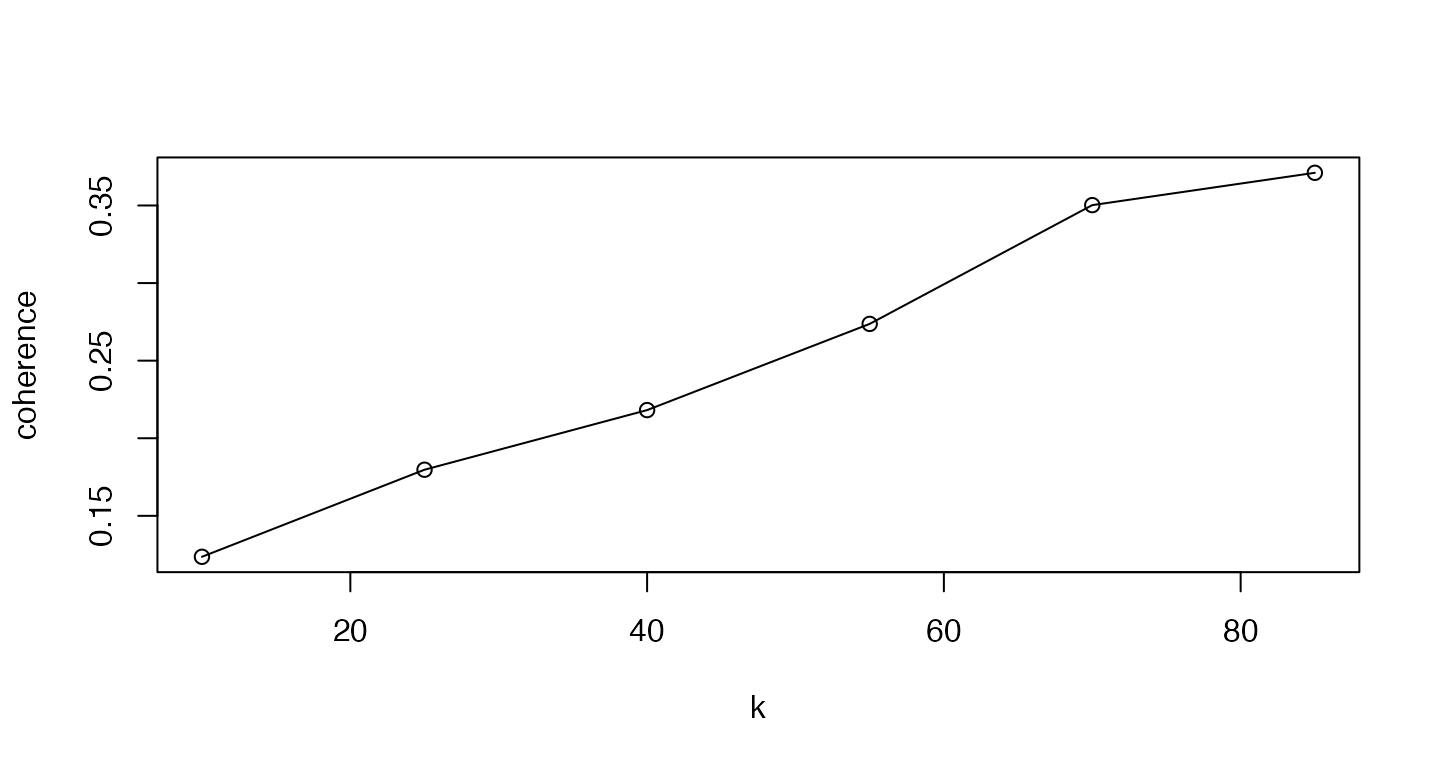
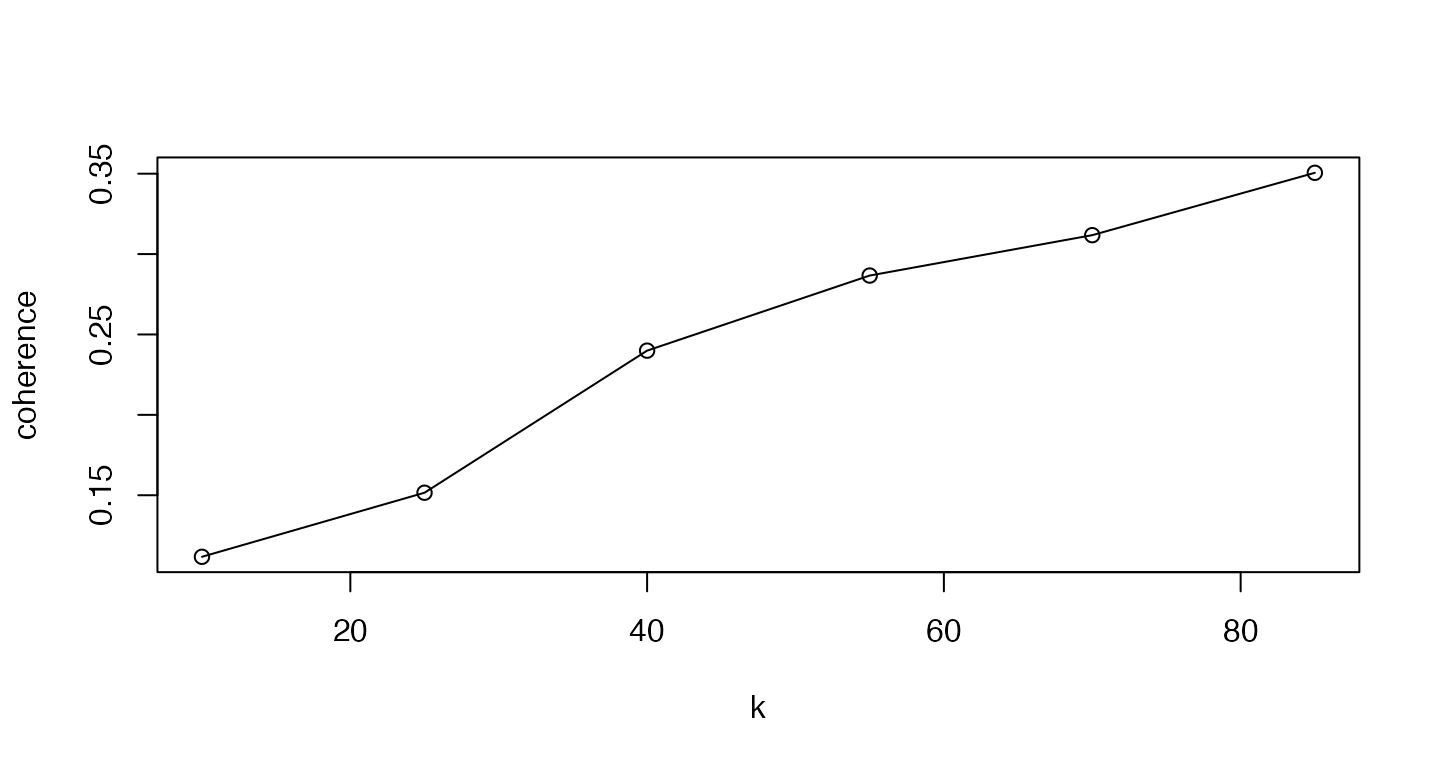
update website again

diff --git a/docs/articles/d_text_embeddings.html b/docs/articles/d_text_embeddings.html
@@ -194,11 +194,11 @@
 <div class="sourceCode" id="cb3"><pre class="downlit sourceCode r">
 <code class="sourceCode R"><span class="co"># Get an R-squared for general goodness of fit</span>
 <span class="va">embeddings</span><span class="op">$</span><span class="va">r2</span>
-<span class="co">#&gt; [1] 0.1784636</span>
+<span class="co">#&gt; [1] 0.1785594</span>
 <span class="co"># Get coherence (relative to the TCM) for goodness of fit</span>
 <span class="fu"><a href="https://rdrr.io/r/base/summary.html">summary</a></span><span class="op">(</span><span class="va">embeddings</span><span class="op">$</span><span class="va">coherence</span><span class="op">)</span>
 <span class="co">#&gt;    Min. 1st Qu.  Median    Mean 3rd Qu.    Max. </span>
-<span class="co">#&gt; 0.01480 0.07422 0.10755 0.13179 0.17878 0.35892</span></code></pre></div>
+<span class="co">#&gt; 0.02758 0.07406 0.11779 0.12522 0.17409 0.25412</span></code></pre></div>
 <p>We will create a summary table as we did with a topic model before.</p>
 <div class="sourceCode" id="cb4"><pre class="downlit sourceCode r">
 <code class="sourceCode R"><span class="co"># Get top terms, no labels because we don't have bigrams</span>
@@ -227,74 +227,74 @@
 </tr></thead>
 <tbody>
 <tr class="odd">
-<td align="left">t_8</td>
-<td align="left">t_8</td>
-<td align="right">0.186</td>
-<td align="right">183.75</td>
-<td align="left">aim, studies, study, project, specific</td>
+<td align="left">t_25</td>
+<td align="left">t_25</td>
+<td align="right">0.213</td>
+<td align="right">219.85</td>
+<td align="left">study, aim, specific, studies, determine</td>
 </tr>
 <tr class="even">
-<td align="left">t_42</td>
-<td align="left">t_42</td>
-<td align="right">0.181</td>
-<td align="right">151.36</td>
-<td align="left">research, health, cancer, disease, clinical</td>
+<td align="left">t_19</td>
+<td align="left">t_19</td>
+<td align="right">0.159</td>
+<td align="right">178.29</td>
+<td align="left">research, core, program, studies, support</td>
+</tr>
+<tr class="odd">
+<td align="left">t_45</td>
+<td align="left">t_45</td>
+<td align="right">0.165</td>
+<td align="right">136.86</td>
+<td align="left">cells, cell, human, aim, lung</td>
+</tr>
+<tr class="even">
+<td align="left">t_29</td>
+<td align="left">t_29</td>
+<td align="right">0.090</td>
+<td align="right">114.76</td>
+<td align="left">expression, cdk, role, interactions, structure</td>
 </tr>
 <tr class="odd">
 <td align="left">t_31</td>
 <td align="left">t_31</td>
-<td align="right">0.168</td>
-<td align="right">139.95</td>
-<td align="left">research, core, program, support, center</td>
-</tr>
-<tr class="even">
-<td align="left">t_41</td>
-<td align="left">t_41</td>
-<td align="right">0.162</td>
-<td align="right">137.70</td>
-<td align="left">cells, cell, human, function, lung</td>
-</tr>
-<tr class="odd">
-<td align="left">t_9</td>
-<td align="left">t_9</td>
-<td align="right">0.143</td>
-<td align="right">126.93</td>
-<td align="left">treatment, clinical, based, effect, improve</td>
+<td align="right">0.130</td>
+<td align="right">111.71</td>
+<td align="left">brain, function, activity, tissue, tumor</td>
 </tr>
 <tr class="even">
 <td align="left">t_26</td>
 <td align="left">t_26</td>
-<td align="right">0.181</td>
-<td align="right">124.41</td>
-<td align="left">response, role, responses, brain, immune</td>
+<td align="right">0.121</td>
+<td align="right">109.39</td>
+<td align="left">hiv, based, inflammation, strategies, therapy</td>
 </tr>
 <tr class="odd">
-<td align="left">t_40</td>
-<td align="left">t_40</td>
-<td align="right">0.104</td>
-<td align="right">111.66</td>
-<td align="left">data, studies, time, design, exposure</td>
+<td align="left">t_10</td>
+<td align="left">t_10</td>
+<td align="right">0.105</td>
+<td align="right">107.66</td>
+<td align="left">disease, drug, cardiovascular, related, diseases</td>
 </tr>
 <tr class="even">
-<td align="left">t_38</td>
-<td align="left">t_38</td>
-<td align="right">0.110</td>
-<td align="right">107.10</td>
-<td align="left">factors, risk, early, sud, years</td>
+<td align="left">t_13</td>
+<td align="left">t_13</td>
+<td align="right">0.106</td>
+<td align="right">107.14</td>
+<td align="left">health, clinical, interventions, significant, related</td>
 </tr>
 <tr class="odd">
-<td align="left">t_12</td>
-<td align="left">t_12</td>
-<td align="right">0.054</td>
-<td align="right">106.25</td>
-<td align="left">expression, ipf, acids, patients, acid</td>
+<td align="left">t_17</td>
+<td align="left">t_17</td>
+<td align="right">0.187</td>
+<td align="right">107.04</td>
+<td align="left">cancer, dr, disease, level, research</td>
 </tr>
 <tr class="even">
-<td align="left">t_33</td>
-<td align="left">t_33</td>
-<td align="right">0.227</td>
-<td align="right">105.93</td>
-<td align="left">dependent, sleep, memory, cellular, plasticity</td>
+<td align="left">t_4</td>
+<td align="left">t_4</td>
+<td align="right">0.059</td>
+<td align="right">104.61</td>
+<td align="left">data, methods, cost, capacity, analysis</td>
 </tr>
 </tbody>
 </table>
@@ -312,74 +312,74 @@
 </tr></thead>
 <tbody>
 <tr class="odd">
-<td align="left">t_24</td>
-<td align="left">t_24</td>
-<td align="right">0.359</td>
-<td align="right">101.78</td>
-<td align="left">fertility, race, ethnic, knowledge, unintended</td>
-</tr>
-<tr class="even">
-<td align="left">t_18</td>
-<td align="left">t_18</td>
-<td align="right">0.326</td>
-<td align="right">98.76</td>
-<td align="left">capacity, li, batteries, aid, battery</td>
-</tr>
-<tr class="odd">
-<td align="left">t_27</td>
-<td align="left">t_27</td>
-<td align="right">0.294</td>
-<td align="right">94.58</td>
-<td align="left">provided, applicant, project, people, description</td>
-</tr>
-<tr class="even">
-<td align="left">t_22</td>
-<td align="left">t_22</td>
-<td align="right">0.278</td>
-<td align="right">100.12</td>
-<td align="left">microbiome, gut, composition, crc, bas</td>
-</tr>
-<tr class="odd">
-<td align="left">t_30</td>
-<td align="left">t_30</td>
-<td align="right">0.268</td>
-<td align="right">100.81</td>
-<td align="left">proteins, cutaneous, sand, infection, response</td>
-</tr>
-<tr class="even">
-<td align="left">t_19</td>
-<td align="left">t_19</td>
-<td align="right">0.266</td>
-<td align="right">96.04</td>
-<td align="left">blood, fragment, release, cmybp, properties</td>
-</tr>
-<tr class="odd">
-<td align="left">t_2</td>
-<td align="left">t_2</td>
-<td align="right">0.234</td>
-<td align="right">98.21</td>
-<td align="left">influenza, vaccine, anti, antigen, centralized</td>
+<td align="left">t_12</td>
+<td align="left">t_12</td>
+<td align="right">0.254</td>
+<td align="right">94.55</td>
+<td align="left">provided, applicant, project, cancer, health</td>
 </tr>
 <tr class="even">
 <td align="left">t_33</td>
 <td align="left">t_33</td>
-<td align="right">0.227</td>
-<td align="right">105.93</td>
-<td align="left">dependent, sleep, memory, cellular, plasticity</td>
+<td align="right">0.247</td>
+<td align="right">101.69</td>
+<td align="left">microbiome, gut, anti, crc, composition</td>
 </tr>
 <tr class="odd">
-<td align="left">t_39</td>
-<td align="left">t_39</td>
-<td align="right">0.201</td>
-<td align="right">96.81</td>
-<td align="left">ms, imaging, radiation, tissue, vivo</td>
+<td align="left">t_7</td>
+<td align="left">t_7</td>
+<td align="right">0.242</td>
+<td align="right">97.24</td>
+<td align="left">fertility, race, scaffold, ethnic, unintended</td>
 </tr>
 <tr class="even">
-<td align="left">t_47</td>
-<td align="left">t_47</td>
-<td align="right">0.199</td>
-<td align="right">95.87</td>
-<td align="left">long, term, development, drug, goal</td>
+<td align="left">t_24</td>
+<td align="left">t_24</td>
+<td align="right">0.238</td>
+<td align="right">91.01</td>
+<td align="left">type, mutant, goals, hlrrk, pd</td>
+</tr>
+<tr class="odd">
+<td align="left">t_37</td>
+<td align="left">t_37</td>
+<td align="right">0.236</td>
+<td align="right">99.45</td>
+<td align="left">injury, cmybp, blood, release, fragment</td>
+</tr>
+<tr class="even">
+<td align="left">t_36</td>
+<td align="left">t_36</td>
+<td align="right">0.218</td>
+<td align="right">103.75</td>
+<td align="left">dependent, sleep, memory, plasticity, cognitive</td>
+</tr>
+<tr class="odd">
+<td align="left">t_25</td>
+<td align="left">t_25</td>
+<td align="right">0.213</td>
+<td align="right">219.85</td>
+<td align="left">study, aim, specific, studies, determine</td>
+</tr>
+<tr class="even">
+<td align="left">t_38</td>
+<td align="left">t_38</td>
+<td align="right">0.194</td>
+<td align="right">103.56</td>
+<td align="left">response, immune, infection, responses, host</td>
+</tr>
+<tr class="odd">
+<td align="left">t_41</td>
+<td align="left">t_41</td>
+<td align="right">0.190</td>
+<td align="right">99.79</td>
+<td align="left">metabolic, state, mitochondrial, secretion, redox</td>
+</tr>
+<tr class="even">
+<td align="left">t_17</td>
+<td align="left">t_17</td>
+<td align="right">0.187</td>
+<td align="right">107.04</td>
+<td align="left">cancer, dr, disease, level, research</td>
 </tr>
 </tbody>
 </table>
@@ -411,14 +411,14 @@
                                       cpus <span class="op">=</span> <span class="fl">2</span><span class="op">)</span>
 
 <span class="va">embeddings</span><span class="op">$</span><span class="va">r2_dtm</span>
-<span class="co">#&gt; [1] 0.2364748</span>
+<span class="co">#&gt; [1] 0.2260132</span>
 <span class="co"># get coherence relative to DTM</span>
 <span class="va">embeddings</span><span class="op">$</span><span class="va">coherence_dtm</span> <span class="op">&lt;-</span> <span class="fu"><a href="../reference/CalcProbCoherence.html">CalcProbCoherence</a></span><span class="op">(</span>phi <span class="op">=</span> <span class="va">embeddings</span><span class="op">$</span><span class="va">phi</span><span class="op">[</span>,<span class="fu"><a href="https://rdrr.io/r/base/colnames.html">colnames</a></span><span class="op">(</span><span class="va">dtm_embed</span><span class="op">)</span><span class="op">]</span>, <span class="co"># line up vocabulary</span>
                                               dtm <span class="op">=</span> <span class="va">dtm_embed</span><span class="op">)</span>
 
 <span class="fu"><a href="https://rdrr.io/r/base/summary.html">summary</a></span><span class="op">(</span><span class="va">embeddings</span><span class="op">$</span><span class="va">coherence_dtm</span><span class="op">)</span>
 <span class="co">#&gt;     Min.  1st Qu.   Median     Mean  3rd Qu.     Max. </span>
-<span class="co">#&gt; -0.02489  0.06746  0.09972  0.14538  0.18728  0.56178</span></code></pre></div>
+<span class="co">#&gt; -0.02039  0.05294  0.09930  0.14709  0.22487  0.55418</span></code></pre></div>
 </div>
 <div id="where-to-next" class="section level2">
 <h2 class="hasAnchor">

diff --git a/docs/articles/c_topic_modeling.html b/docs/articles/c_topic_modeling.html
@@ -129,7 +129,7 @@
 <a href="#topic-modeling" class="anchor"></a>Topic modeling</h1>
 <p>textmineR has extensive functionality for topic modeling. You can fit Latent Dirichlet Allocation (LDA), Correlated Topic Models (CTM), and Latent Semantic Analysis (LSA) from within textmineR. (Examples with LDA and LSA follow below.) As of this writing, textmineR’s LDA and CTM functions are wrappers for other packages to facilitate a consistent workflow. (And textmineR takes advantage of the <code>RSpectra</code> package for LSA’s single-value decomposition.) Plans exist to implement LDA natively with <code>Rcpp</code> sometime in 2018.</p>
 <p>textmineR’s consistent representation of topic models boils down to two matrices. The first, “theta” (<span class="math inline">\(\Theta\)</span>), has rows representing a distribution of topics over documents. The second, phi (<span class="math inline">\(\Phi\)</span>), has rows representing a distribution of words over topics. In the case of probabilistic models, these are categorical probability distributions. For non-probabilistic models (e.g. LSA) these distributions are, obviously, not probabilities. With LSA, for example, there is a third object representing the singular values in the decomposition.</p>
-<p>In addition, textmineR has utility functions for topic models. This includes some original research. Examples include an R-squared for probabilistic topic models (<a href="https://drive.google.com/file/d/0Bz2enPyUvnKIQmtDTEswbzdUMU0/view">working paper here</a>), probabilistic coherence (a measure of topic quality), and a topic labeling function based on most-probable bigrams. Other utilities are demonstrated below</p>
+<p>In addition, textmineR has utility functions for topic models. This includes some original research. Examples include an R-squared for probabilistic topic models (<a href="https://arxiv.org/abs/1911.11061">working paper here</a>), probabilistic coherence (a measure of topic quality), and a topic labeling function based on most-probable bigrams. Other utilities are demonstrated below</p>
 <div class="sourceCode" id="cb1"><pre class="downlit sourceCode r">
 <code class="sourceCode R"><span class="kw"><a href="https://rdrr.io/r/base/library.html">library</a></span><span class="op">(</span><span class="va"><a href="https://www.rtextminer.com/">textmineR</a></span><span class="op">)</span>
 <span class="co">#&gt; Loading required package: Matrix</span>
